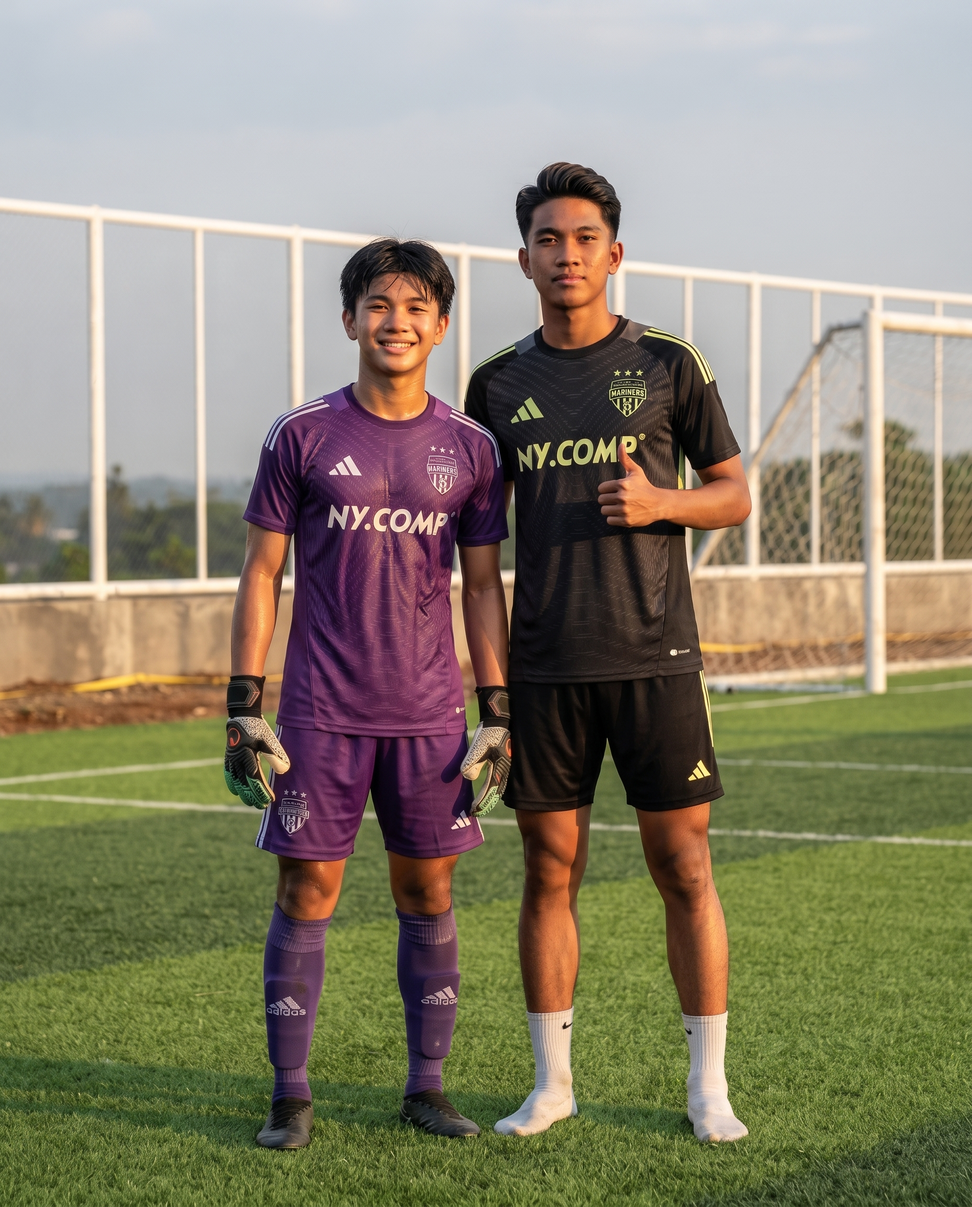
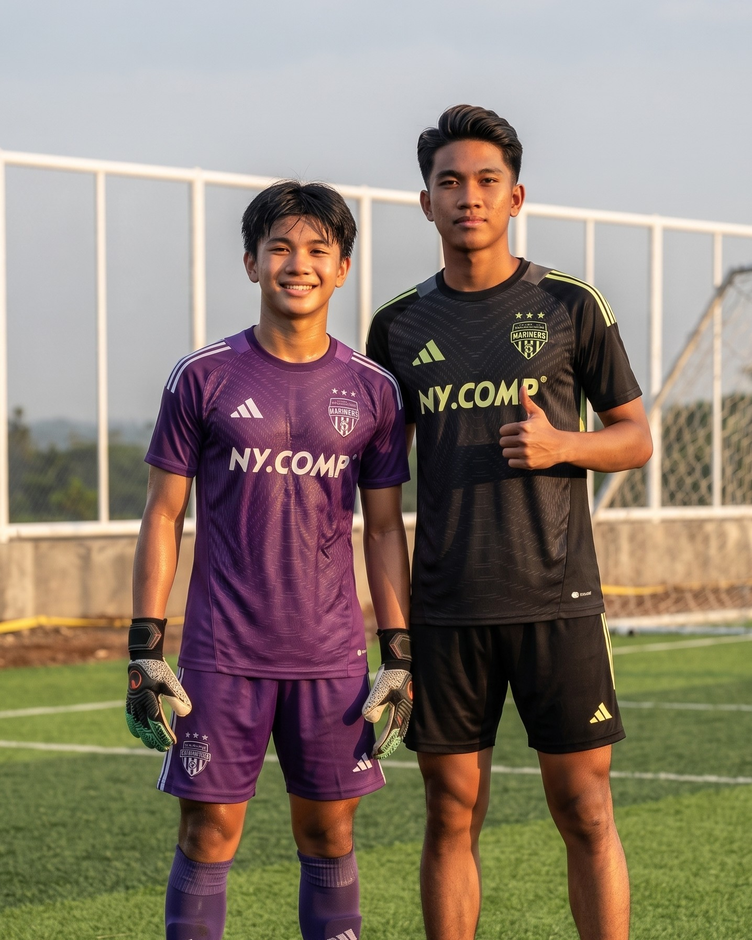
update main website hero poster image to mainposter.jpeg

diff --git a/src/app/page.tsx b/src/app/page.tsx
@@ -151,7 +151,7 @@ export default async function HomePage() {
       <section className="relative py-6 sm:py-20 min-h-0 sm:min-h-[85vh] flex items-center justify-center overflow-hidden border-b border-blue-500/20 px-2 sm:px-3">
         <div 
           className="absolute inset-0 bg-cover bg-center bg-no-repeat filter brightness-95 contrast-105 scale-105 transform duration-1000"
-          style={{ backgroundImage: `url('/players.jpeg')` }}
+          style={{ backgroundImage: `url('/mainposter.jpeg')` }}
         />
         <div className="absolute inset-0 bg-gradient-to-t from-[#060b14] via-[#060b14]/55 to-[#060b14]/20" />
         <div className="absolute inset-0 bg-gradient-to-r from-[#060b14]/50 via-transparent to-[#060b14]/50" />
